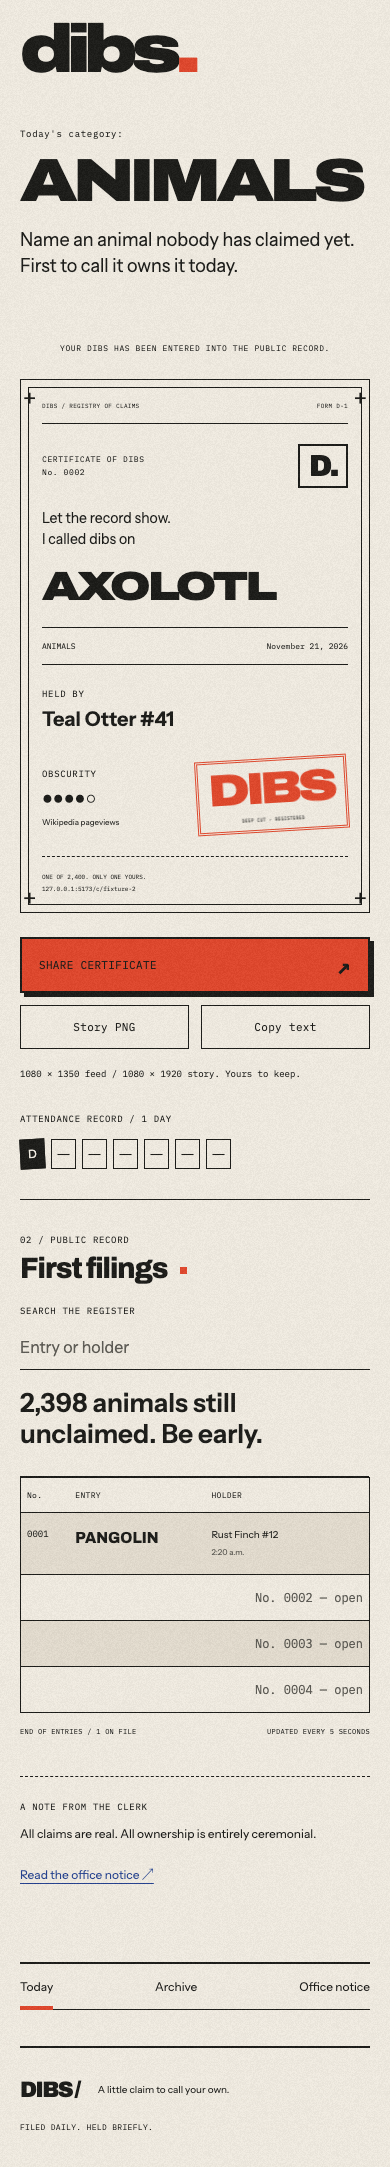
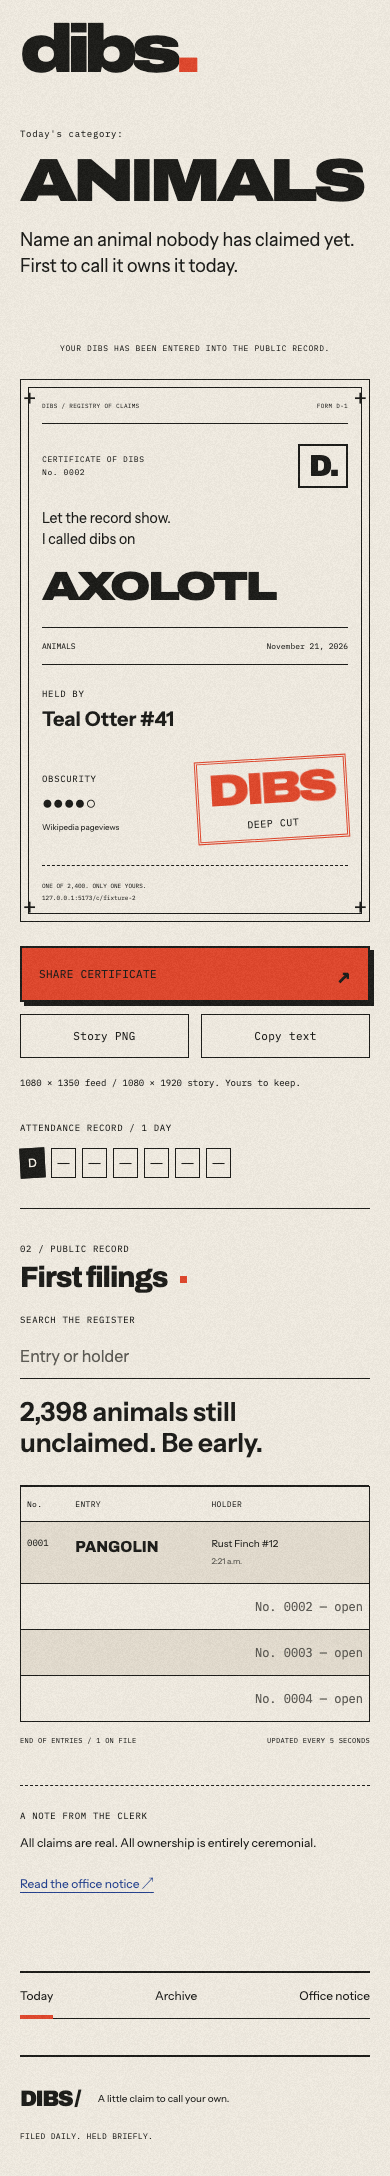
R2: make the deep cut stamp legible on phones and PNGs

diff --git a/src/style.css b/src/style.css
@@ -1830,3 +1830,7 @@ html.low-power .claim-imprint strong {
 .specimen-line { padding: 18px 0; border-top: 1px solid var(--ink); font: 12px/1.5 Plex, monospace; }
 .specimen-watermark { position: absolute; top: 49%; left: 0; width: 100%; text-align: center; transform: rotate(-18deg); font: 900 clamp(36px, 7vw, 100px) Archivo; color: var(--ink); opacity: .15; pointer-events: none; }
 .archive-specimen > .eyebrow:last-child { margin: 30px 0 0; }
+.dibs-stamp { filter: none; }
+.dibs-stamp strong { filter: url('#ink'); }
+.dibs-stamp span { font-size: 11px; letter-spacing: .05em; line-height: 1.5; }
+@media (max-width: 600px) { .dibs-stamp span { font-size: 10px; } }

diff --git a/src/share.ts b/src/share.ts
@@ -99,9 +99,9 @@ export async function exportCertificate(claim: Claim, story: boolean, text: stri
   c.textAlign = 'center';
   c.fillText('DIBS', 0, 32);
   c.fillStyle = '#1A1A17';
-  c.font = '400 14px Plex';
+  c.font = '400 22px Plex';
   c.fillText(
-    claim.obscurity && claim.obscurity >= 4 ? 'DEEP CUT · REGISTERED' : 'OFFICIALLY REGISTERED',
+    claim.obscurity && claim.obscurity >= 4 ? 'DEEP CUT' : 'REGISTERED',
     0,
     61,
   );

diff --git a/src/App.tsx b/src/App.tsx
@@ -788,8 +788,8 @@ export function Certificate({ claim, animated = false }: { claim: Claim; animate
           <strong>DIBS</strong>
           <span>
             {claim.obscurity && claim.obscurity >= 4
-              ? 'DEEP CUT · REGISTERED'
-              : 'OFFICIALLY REGISTERED'}
+              ? 'DEEP CUT'
+              : 'REGISTERED'}
           </span>
         </motion.div>
       </div>
